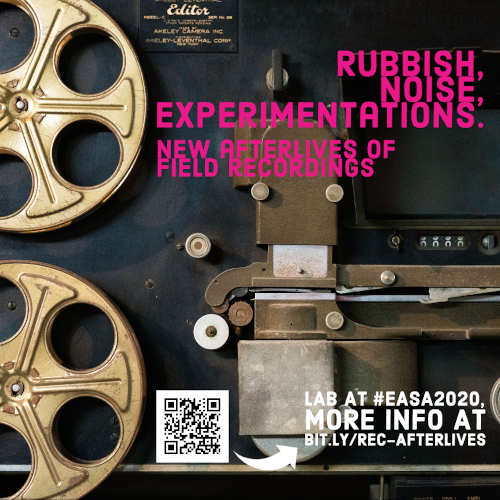
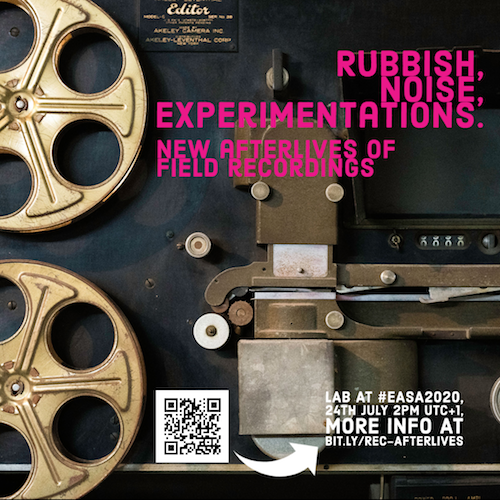
time and date added

diff --git a/rubbish.html b/rubbish.html
@@ -17,6 +17,7 @@
       <header>
         <h1>Rubbish, noise, experimentations. New afterlives of field recordings</h1>
         <h2>A laboratory at EASA2020</h2>
+        <p>24th July, 14:00 UTC+1</p>
         <p>Convenors:<br />
         Jonathan Larcher<br />
         (email: larcherj at hotmail.fr)<br />
@@ -36,6 +37,8 @@
         <h3>Long abstract</h3>
 
         <p>For decades, anthropologists have approached film, video and sound recordings as raw data subordinated to a research strategy. Once the film, the book or the research is finished, these materials are usually conceived as archives (Lajoux 1976) or, more seldom, as materials to be reinvested through the practice of feedback and "dialogic editing" (Feld 1987) with our interlocutors. These practices tend to treat recordings as disposable matter, which, once used, ends up discarded or even never used, because of various reasons - e.g. technical mistakes during recording, analogue deterioration or digital glitches, or not fulfilling the promise of being interesting or useful. In an approach that is sensitive to the media-technical material conditions of our recordings, this lab proposes to listen to and tinker with field recordings, paying particular attention to the kind of "figural excess" (Pinney 2005) contained in fieldwork recordings. The lab explores the idea of how seizing field recordings as autonomous material objects, which have an independent existence besides their status as a "research commodity" (Birtwistle 2010), might open up their interpretation. Participants are invited to upload snippets of audiovisual or aural material, which can be raw, work in progress or already completed. The lab will take place virtually on the conference platform, where these materials (video of a performance/film, audio file of a sound piece) will be listened to or watched collectively, and discussed afterwards. Open to all EASA participants, the lab will be coordinated with the participants who have pre-registered for attendance.</p>
+
+        <p>Discussant for the laboratory will be Ernst Karel (Sensory Ethnography Lab, Harvard University).
 
         <p>(See the lab abstract at the <a href="https://nomadit.co.uk/conference/easa2020/paper/55302">EASA website</a>.)</p>
 
